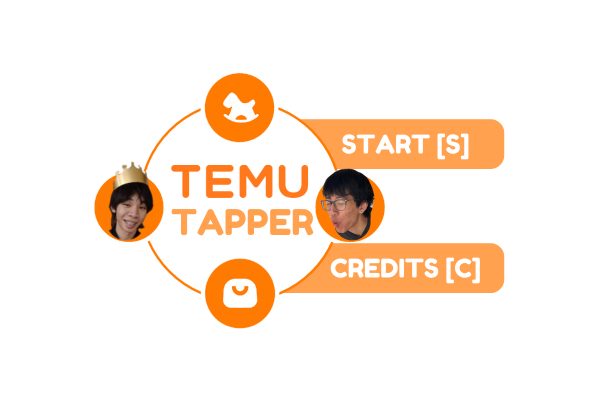
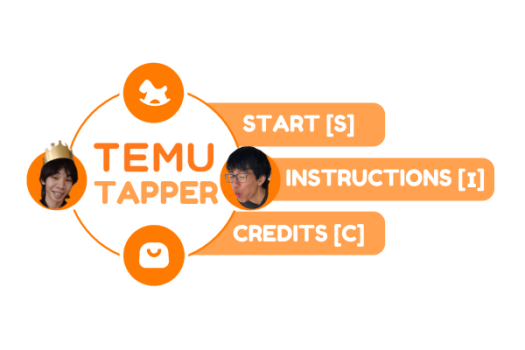
final sendof

Changed region(s): [[0.0305, 0.1714, 0.9448, 0.8286], [0.1524, 0.6286, 0.1829, 0.6857], [0.1524, 0.3143, 0.1829, 0.3714]]

diff --git a/Map.java b/Map.java
@@ -9,6 +9,8 @@ public class Map extends World
     private Track[] tracks;
     private Hitbox[] hitboxes;
     private GreenfootSound music;
+    //private Score scoreHolder;
+    //private Score score;
     public Map()
     {    
         super(1200, 800, 1);
@@ -29,6 +31,7 @@ public class Map extends World
             hitboxes[i] = new Hitbox(i);
             addObject(hitboxes[i], 100 + i * 100, getHeight() - 50 );
         }
+        //addObject(new Score(), getWidth() - 130, 50);
     }
     private void playMusic() {
         music = new GreenfootSound("PUK.mp3");
@@ -47,4 +50,9 @@ public class Map extends World
         int track = Greenfoot.getRandomNumber(4); // Randomly select one of the 4 tracks
         addObject(new Beat(), 100 + track * 100, 0);
     }
+    /*
+    public Score getScore() {
+        return score;
+    }
+    */
 }

diff --git a/Score.java b/Score.java
@@ -1,9 +1,24 @@
 import greenfoot.*;  // (World, Actor, GreenfootImage, Greenfoot and MouseInfo)
 
-public class Score extends GameObject
+/*
+ public class Score extends Actor
 {
+    private int score;
+    public Score(){
+        score = 0;
+        displayScore();
+    }
     public void act()
     {
-        
+        displayScore();
+    }
+    private void displayScore() {
+        GreenfootImage image = new GreenfootImage("Score:"+ score, 50, Color.WHITE, null);
+        setImage(image);
+    }
+    public void incrementScore(int value) {
+        score += value;
+        displayScore();
     }
 }
+*/

diff --git a/Config.java b/Config.java
@@ -3,9 +3,9 @@ import greenfoot.*;  // (World, Actor, GreenfootImage, Greenfoot and MouseInfo)
 public class Config {
     private static final int HEIGHT = 800;
     private static final int WIDTH = 1200;
-    private static final int BEAT_SIZE = 75;
-    private static final int BEAT_SPEED = 5;
-    private static final int COOLDOWN = 100;
+    private static final int BEAT_SIZE = 50;
+    private static final int BEAT_SPEED = 10;
+    private static final int COOLDOWN = 150;
     
     public static int getHeight(){
         return HEIGHT;

diff --git a/Beat.java b/Beat.java
@@ -4,6 +4,7 @@ public class Beat extends GameObject
 {
     //private int group, time;
     private int speed = Config.getBeatSpeed();
+    private GreenfootSound music;
     public Beat(){
         //this.group = group;
         //this.time = time;
@@ -29,7 +30,7 @@ public class Beat extends GameObject
         setLocation(getX(), getY() + speed);
         if(isAtEdge()){
             getWorld().removeObject(this);
+            music = new GreenfootSound("21_wood1.wav");
         }
     }
-    
 }

diff --git a/Instructions.java b/Instructions.java
@@ -1,0 +1,18 @@
+import greenfoot.*;
+
+public class Instructions extends World
+{
+    public Instructions()
+    {
+        super(1200, 800, 1); 
+        GreenfootImage bg = new GreenfootImage("instruct.png");
+        bg.scale(super.getWidth(), super.getHeight() );
+        this.setBackground(bg);
+    }
+    public void act(){
+        if(Greenfoot.isKeyDown("b")){
+            Greenfoot.setWorld(new MainMenu());
+            Greenfoot.playSound("start.wav");
+        }
+    }
+}

diff --git a/Hitbox.java b/Hitbox.java
@@ -81,4 +81,13 @@ public class Hitbox extends GameObject
         else
             return false;
     }
+    /*
+    private void addScore(int a){
+        Map world = (Map) getWorld();
+        Score score = world.getScore();
+        if (score != null) {
+                score.incrementScore(a);
+            }
+    }
+    */
 }

diff --git a/MainMenu.java b/MainMenu.java
@@ -26,5 +26,9 @@ public class MainMenu extends World
             Greenfoot.setWorld(new Credits());
             Greenfoot.playSound("start.wav");
         }
+        if(Greenfoot.isKeyDown("i")){
+            Greenfoot.setWorld(new Instructions());
+            Greenfoot.playSound("start.wav");
+        }
     }
 } 
